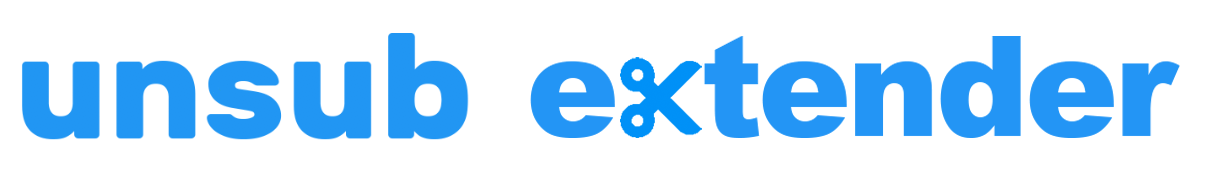
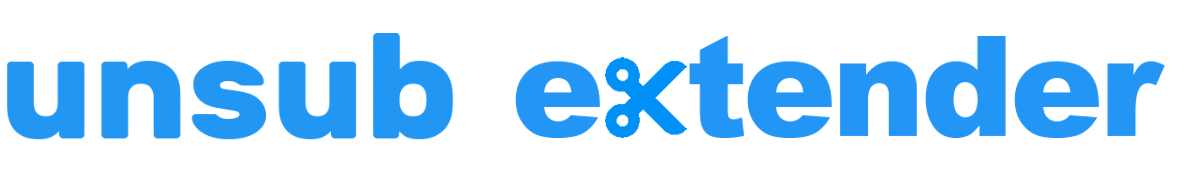
Add files via upload
Logo

Changed region(s): [[0.4873, 0.1923, 1.0, 0.7692], [0.0, 0.1923, 0.3959, 0.7692]]

diff --git a/unsub_extender.py b/unsub_extender.py
@@ -12,7 +12,7 @@ import altair as alt
 
 
 #st.title('Unsub Extender')
-st.image('unsub_extender.png')
+st.image('unsub_extender2.png')
 
 file = "Unsub_Elsevier_2021_cancellations.csv"
 uploaded_file = st.sidebar.file_uploader('Upload new .csv file:', type='csv')
